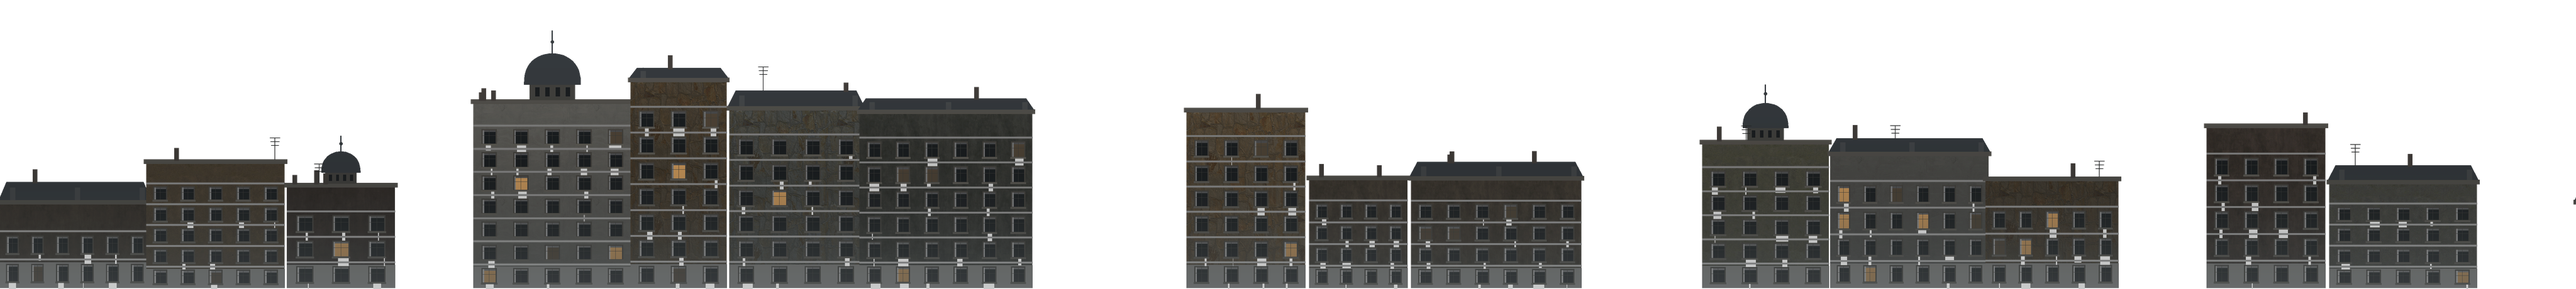
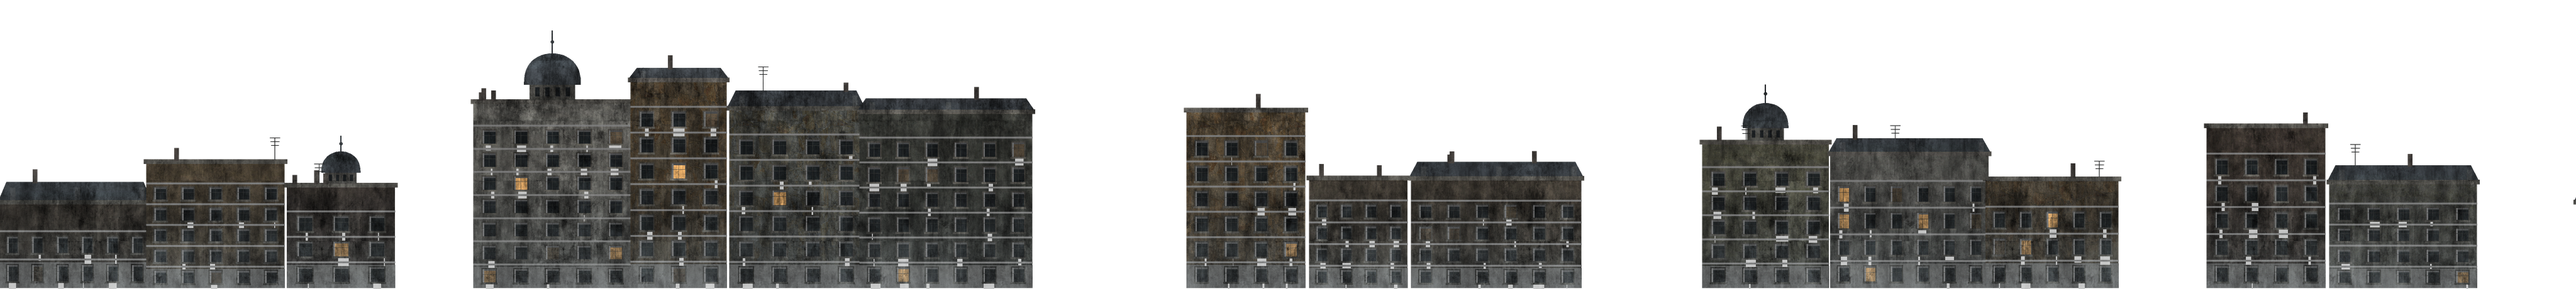
Skyline layers carry photographed concrete grime, so no surface reads as flat paint
Claude-Session: https://claude.ai/code/session_01Qhpaoiu8fLoDTWdvAfy6Bm

diff --git a/tools/ui_assets.py b/tools/ui_assets.py
@@ -162,6 +162,20 @@ def haze(img, color, amount):
     return Image.fromarray(np.concatenate([rgb, alpha], axis=2).clip(0, 255).astype(np.uint8), "RGBA")
 
 
+def grime(img, strength=0.35, tile=384):
+    """Breaks up flat paint with a photographed concrete texture, so every
+    surface carries the dirt and wear of a real one."""
+    tex = Image.open(SRC / "acg" / "Concrete031" / "Concrete031_1K-JPG_Color.jpg").convert("L").resize((tile, tile))
+    t = np.asarray(tex).astype(np.float32) / 255.0
+    t = (t - t.mean()) / (t.std() + 1e-6)
+    a = np.asarray(img).astype(np.float32)
+    h, w = a.shape[:2]
+    reps = (h // tile + 1, w // tile + 1)
+    field = np.tile(t, reps)[:h, :w]
+    a[..., :3] *= (1.0 + strength * 0.25 * field)[..., None]
+    return Image.fromarray(a.clip(0, 255).astype(np.uint8), "RGBA")
+
+
 def vertical_fade(img, top_alpha, until):
     """Fades a layer's top into the clouds: alpha scales from top_alpha at
     the top edge to 1 at row `until`."""
@@ -282,7 +296,7 @@ def far_layer(rng):
     spire = haze(c2.done(), (140, 150, 156), 0.28)
     spire = vertical_fade(spire, 0.25, 420)
     out = Image.alpha_composite(far, spire)
-    save_png(out, "skyline/far.png")
+    save_png(grime(out, 0.22), "skyline/far.png")
 
 
 def dome(c, x, y, r, color):
@@ -418,7 +432,7 @@ def mid_layer(rng):
         x += rng.uniform(90, 320)
     img = shade_layer(c.done(), fog=(120, 128, 130), fog_amount=0.35)
     img = haze(img, (118, 128, 132), 0.12)
-    save_png(img, "skyline/mid.png")
+    save_png(grime(img, 0.8), "skyline/mid.png")
 
 
 def catenary(p0, p1, sag, n=24):
@@ -505,7 +519,7 @@ def near_layer(rng):
         c.rect(sx + 4, base - 272, sx + 38, base - 230, (18, 22, 26, 255))
         c.rect(sx + 7, base - 269, sx + 35, base - 233, (96, 150, 160, 255))
         c.rect(sx + 7, base - 269, sx + 35, base - 262, (150, 200, 206, 255))
-    save_png(shade_layer(c.done(), top_light=1.0, base_dark=0.85), "skyline/near.png")
+    save_png(grime(shade_layer(c.done(), top_light=1.0, base_dark=0.85), 1.0), "skyline/near.png")
 
 
 # ---------------------------------------------------------- menu backdrop
